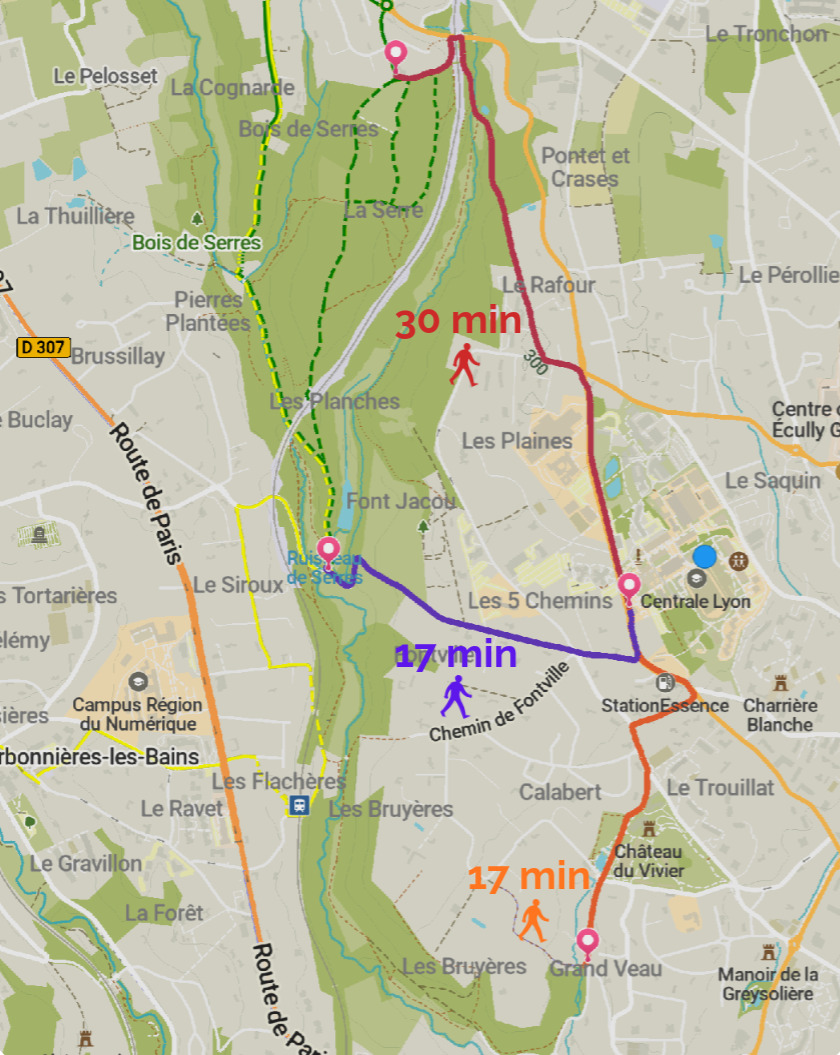
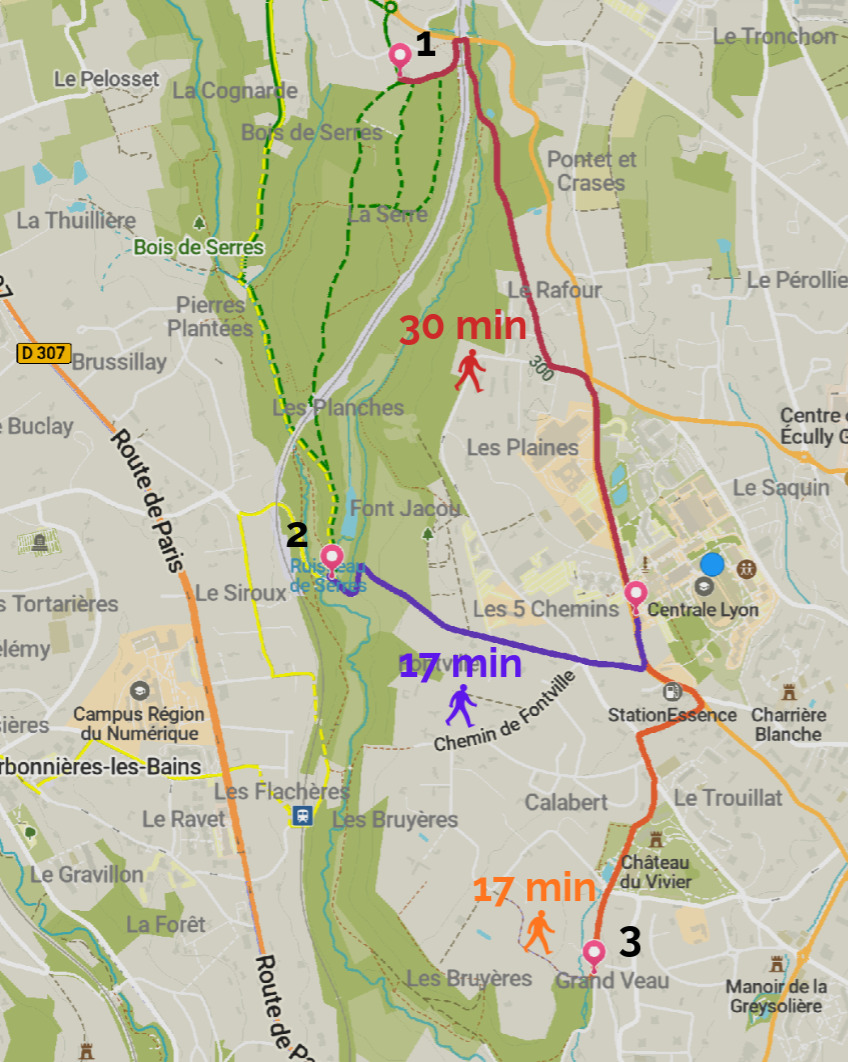
ok

diff --git a/index.html b/index.html
@@ -126,7 +126,7 @@
         </div>
 
         <div class="liste-itineraires" style="margin-top: 25px;">
-          <h4 style="margin-bottom: 12px; color: #2e7d32;">📍 Liste des accès au bois :</h4>
+          <h4 style="margin-bottom: 12px; color: #2e7d32;">Liste des accès au bois :</h4>
           
           <div style="display: flex; align-items: center; justify-content: space-between; padding: 10px 0; border-bottom: 1px solid #eee;">
             <span style="font-size: 14px; padding-right: 10px;"><strong>1.</strong> Entrée Nord - Sentier du Bois de Serres</span>
@@ -139,7 +139,7 @@
           </div>
 
           <div style="display: flex; align-items: center; justify-content: space-between; padding: 10px 0; border-bottom: 1px solid #eee;">
-            <span style="font-size: 14px; padding-right: 10px;"><strong>3.</strong> Entrée Sud - Sentier du Viaduc</span>
+            <span style="font-size: 14px; padding-right: 10px;"><strong>3.</strong> Entrée Sud - Parc du Vivier</span>
             <button class="btn-modal" style="padding: 6px 12px; font-size: 13px; margin: 0; white-space: nowrap;" onclick="openItineraryModal(3)">Voir l'accès</button>
           </div>
         </div>
